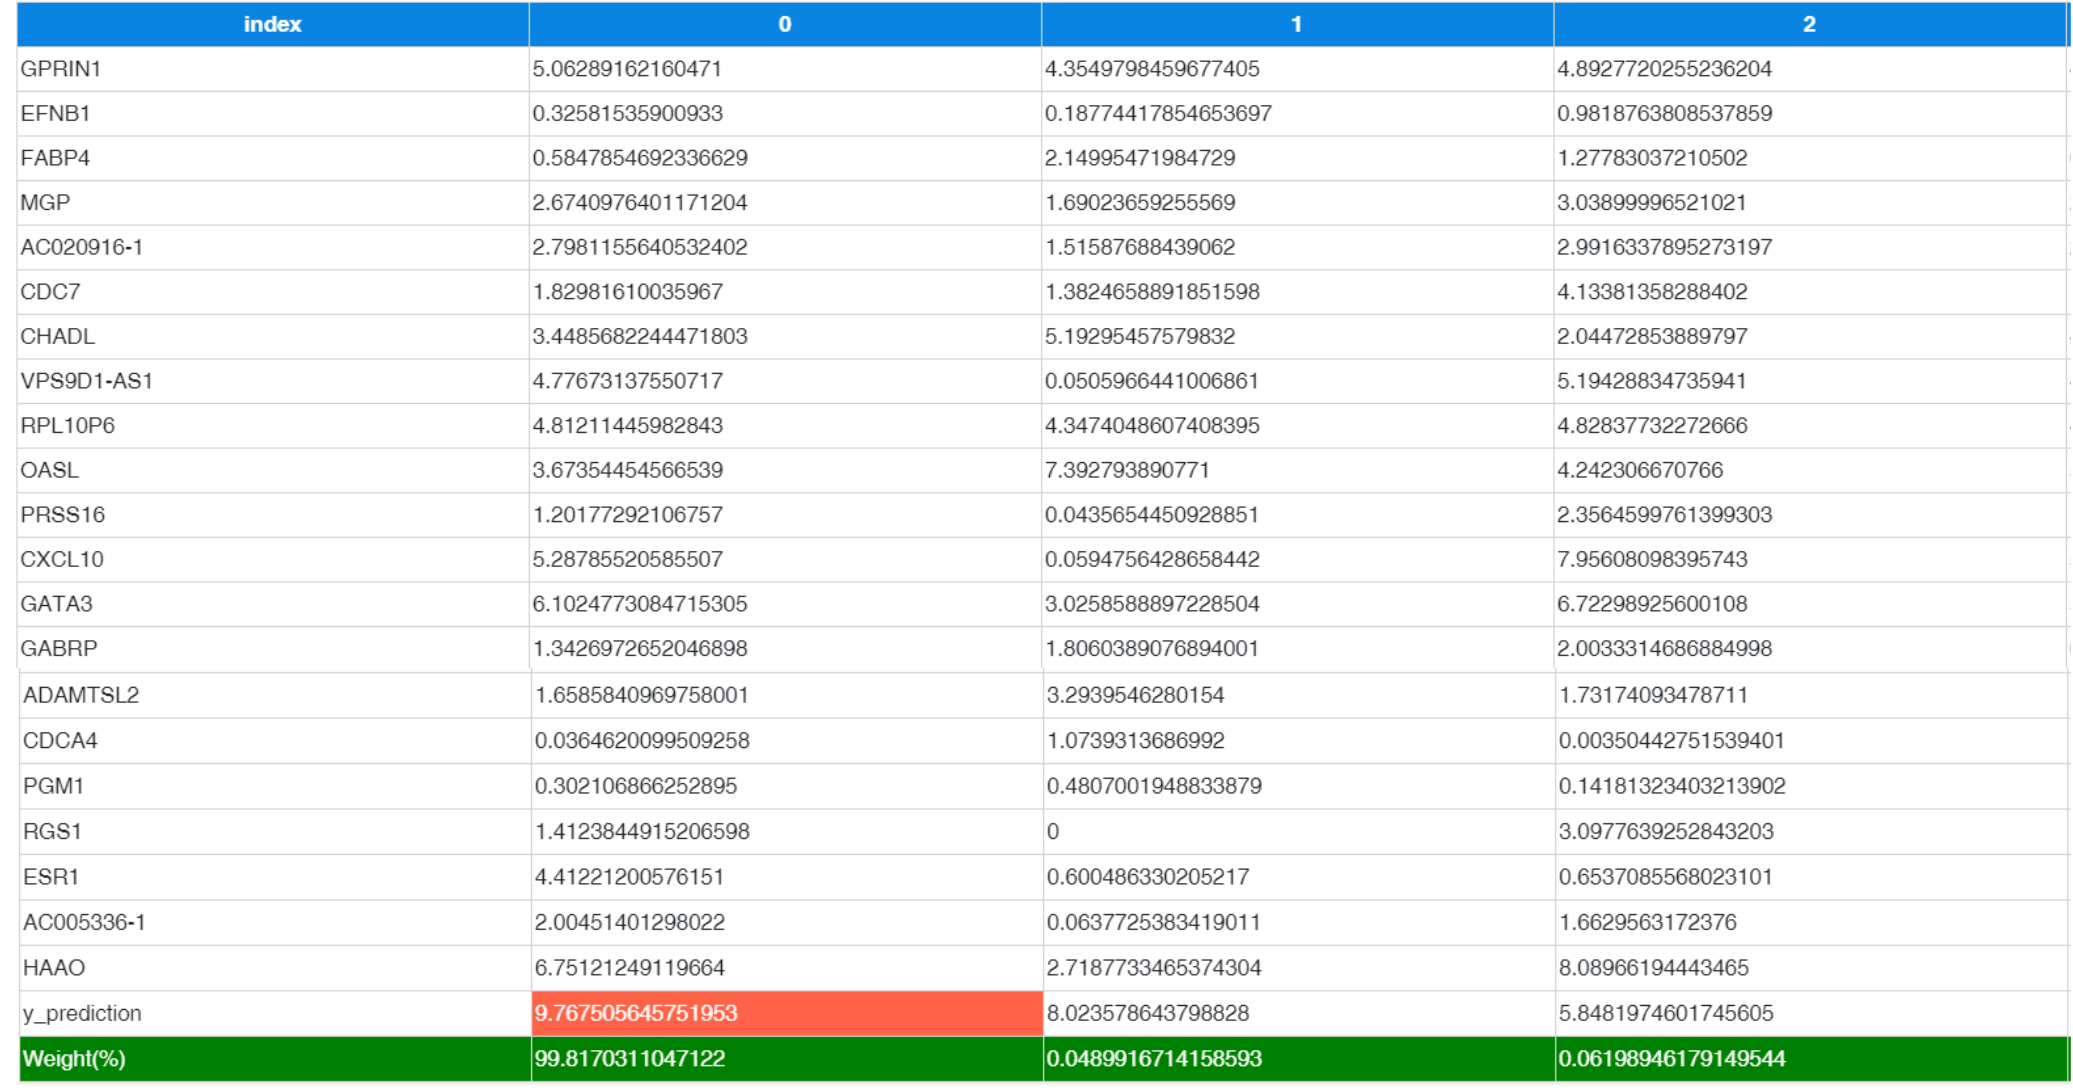
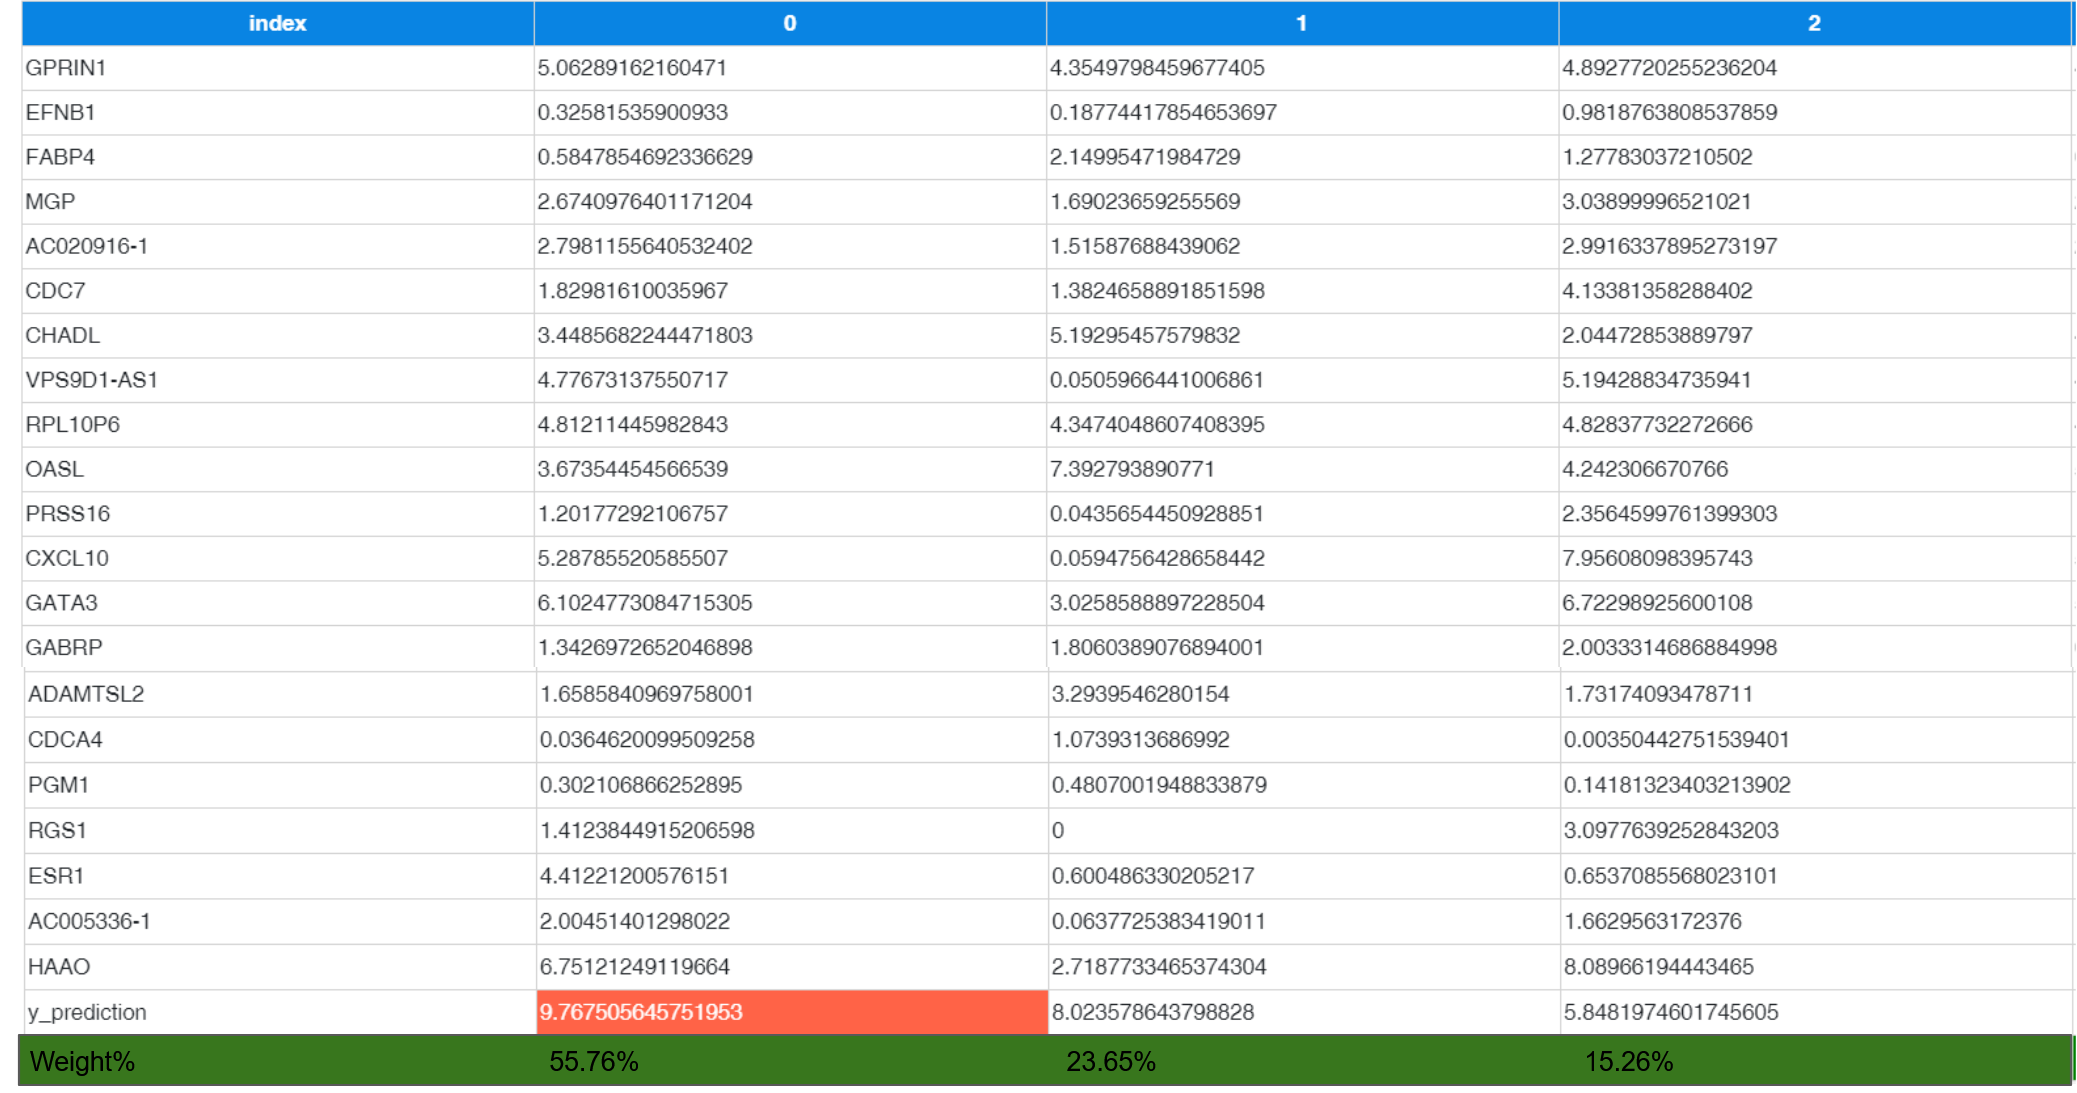
Updates from Overleaf

diff --git a/ExplainablePredictions/ExplainablePredictions.tex b/ExplainablePredictions/ExplainablePredictions.tex
@@ -632,7 +632,7 @@ When we create snapshots, we set the number of epochs to 200, maximum LR to 1.0,
 
 \begin{sidewaysfigure*}
 \centering
-	\includegraphics[scale=0.55]{images/ui.png}
+	\includegraphics[scale=0.8]{images/ui.png}
 	\caption{High-level user interface to explain the predictions}
     \label{fig:ui_explain}
     \vspace{-4mm}
@@ -1165,7 +1165,7 @@ Identification all significant common genes help understand various aspects for 
 \end{sidewaysfigure*}
 
 \subsubsection{Global feature impacts}
-Feature interactions among globally important features with attention mechanism are demonstrated in \cref{fig:global_feature_impacts}. Global feature impacts signify which features have positive impact and which features have negative impact on the output of the diagnosis decision. As shown, on average, genes FOXP4, VPS9D1-AS1, and CYBRD1 will increase the average model outcome~(i.e., 9.758071) by -0.08, 0.05, and 0.05, respectively. On the other hand, genes FOXP4, EMP2, and SAMHD1 will change the average model outcome~(9.758071) by -0.08, -0.03, and -0.03, respectively. 
+Feature interactions among globally important features with attention mechanism are demonstrated in \cref{fig:global_feature_impacts}. Global feature impacts signify which features have positive impact and which features have negative impact on the output of the diagnosis decision. GBP4, VPS9D1-AS1, SLN, SEMA3E, GP2, CXCL10, RAVER1, AL603825-1, TBC1D4, CLTRN, OASL, CWH43, and GABRP positively impact the prediction. This also signifies that if the prediction is in favour of specific cancer type~(let's say COAD) for a specific patient, these variables will play crucial role in maintaining this prediction. However, if we look at TRIM17, CDS1, PCOLCE2, MGP, MTCO1P53, TFF3, AC026403-1, HAGLROS, LAPTM5, SULT4A1, EN1, and EFNB1 have negative impact on the prediction. This means that if the prediction is "COAD" and we increase the value of these variables, we will likely end up flipping-up the prediction to another cancer type.
 
 \begin{sidewaysfigure*}
     \centering
@@ -1174,13 +1174,13 @@ Feature interactions among globally important features with attention mechanism 
     \label{fig:local_feature_impacts5}
 \end{sidewaysfigure*}
 
-\hspace*{3.5mm} On the other hand, the summary plot shown in \cref{fig:local_feature_impacts5} indicates the relationship between the value of a feature and the impact on the prediction made by the for the $MCAE_{lrc}$ model. As shown, GPRIN1, FABP4, AC020916-1, CHADL, RPL10P6, PRSS16, GATA3, SFRP2, LRIG1, SAMHD1, BNC1, AL603825-1, LAPTM5, TBC1D4, SEMA4C, CWH43, HAGLROS, SEMA3E, IVL, EN1, MTND2P28, KREMEN2, EMP2, OSMR, and RAVER1 have the highest impact on the model. 
+\hspace*{3.5mm} Zooming on the individual features provide further insights. In particular, it is observed that the average outcome predicted by the model is 9.754495. On average, the variable GBP4, VPS9D1-AS1, and SLN will increase the average model outcome~(9.754495) by 0.04, 0.05, and 0.06, respectively. On the other hand, the variable TRIM17, CDS1, and PCOLCE2 will change the average model outcome~(9.754495) by -0.04, -0.03, and -0.04, respectively. On the other hand, the summary plot by combining feature importance with feature effects are shown in \cref{fig:local_feature_impacts5}. Each point on the summary plot is an impact value for a feature and an instance. The plot indicates the relationship between the value of a feature and the impact on the prediction made by the for the $MCAE_{lrc}$ model. As shown, GPRIN1, FABP4, AC020916-1, CHADL, RPL10P6, PRSS16, GATA3, SFRP2, LRIG1, SAMHD1, BNC1, AL603825-1, LAPTM5, TBC1D4, SEMA4C, CWH43, HAGLROS, SEMA3E, IVL, EN1, MTND2P28, KREMEN2, EMP2, OSMR, and RAVER1 have the highest impact on the model. 
 
 \subsection{Local explanations}
 In order to explain individual diagnoses, only the important features w.r.t local feature impact is not enough. In fact, sensitivity analysis in terms of what-if and leave-one-feature out analyses are found to be useful across different scenarios. 
 
 \subsubsection{Local feature impacts}
-Local feature impact identifies which features have the greatest positive or negative effect on the outcome of the $MCAE_{lrc}$ model for a specific row, i.e., individual sample. The features are most important in explaining the target variable, are shown on the top. As shown in \cref{fig:local_feature_impacts}, the average outcome predicted by the the $MCAE_{lrc}$ model is 9.758071. On average, variables TFAP2A, VPS9D1-AS1, and MTND2P28 will increase the average model outcome~(9.758071) by -0.36, 0.8, and 0.47, respectively. On the other hand, variables TFAP2A, ADCY3, and FOXP4 will change the average model outcome~(9.758071) by -0.36, -0.31, and-0.28, respectively. To find which patients are similar to the patient being currently diagnosed are identified in \cref{fig:similar_patients}, as indicated by the last row in the table labelled as "Weight". 
+Local feature impact identifies which features have the greatest positive or negative effect on the outcome of the $MCAE_{lrc}$ model for a specific row, i.e., individual sample. The features are most important in explaining the target variable, are shown on the top. As shown in \cref{fig:local_feature_impacts}, the average outcome predicted by the the $MCAE_{lrc}$ model is 9.758071. On average, variables TFAP2A, VPS9D1-AS1, and MTND2P28 will increase the average model outcome~(9.758071) by -0.36, 0.8, and 0.47, respectively. On the other hand, variables TFAP2A, ADCY3, and FOXP4 will change the average model outcome~(9.758071) by -0.36, -0.31, and-0.28, respectively. 
 
 \begin{figure*}[h]
     \centering
@@ -1197,6 +1197,8 @@ Local feature impact identifies which features have the greatest positive or neg
 \end{figure*}
 
 %\hspace*{3.5mm} 
+
+\hspace*{3.5mm} Further, to find which patients are similar to the patient being currently diagnosed are identified in \cref{fig:similar_patients}, as indicated by the last row in the table labelled as "Weight". This is a useful way of explaining to end users~(e.g., a patient or for doctor's understanding) that because Profile `A', Profile `B' and Profile `C' had very similar variables to specific row. Therefore, the model predicted a certain outcome. In this case, Profile 0 is 55.76\% similar, Profile 2 is 23.65\% similar, and Profile 4 is 15.26\% similar to the sample or row number 1 that we are trying to explain. Now the end user can comprehend how the model is making its decisions by looking at that patients.  
 
 \subsubsection{Sensitivity analyses: what-if and leave-one-feature-out}
 In order to quantitatively validate the feature-level relevances for local explianability, first, what-if analysis is carried out. As shown in \cref{fig:what_if}, genes TFAP2A, VPS9D1-AS1, MTND2P28, ADCY3, FOXP4, GPRIN1, EFNB1, FABP4, MGP, AC020916-1, CDC7, CHADL, RPL10P6, OASL, and PRSS16 are most sensitive to making changes. 
